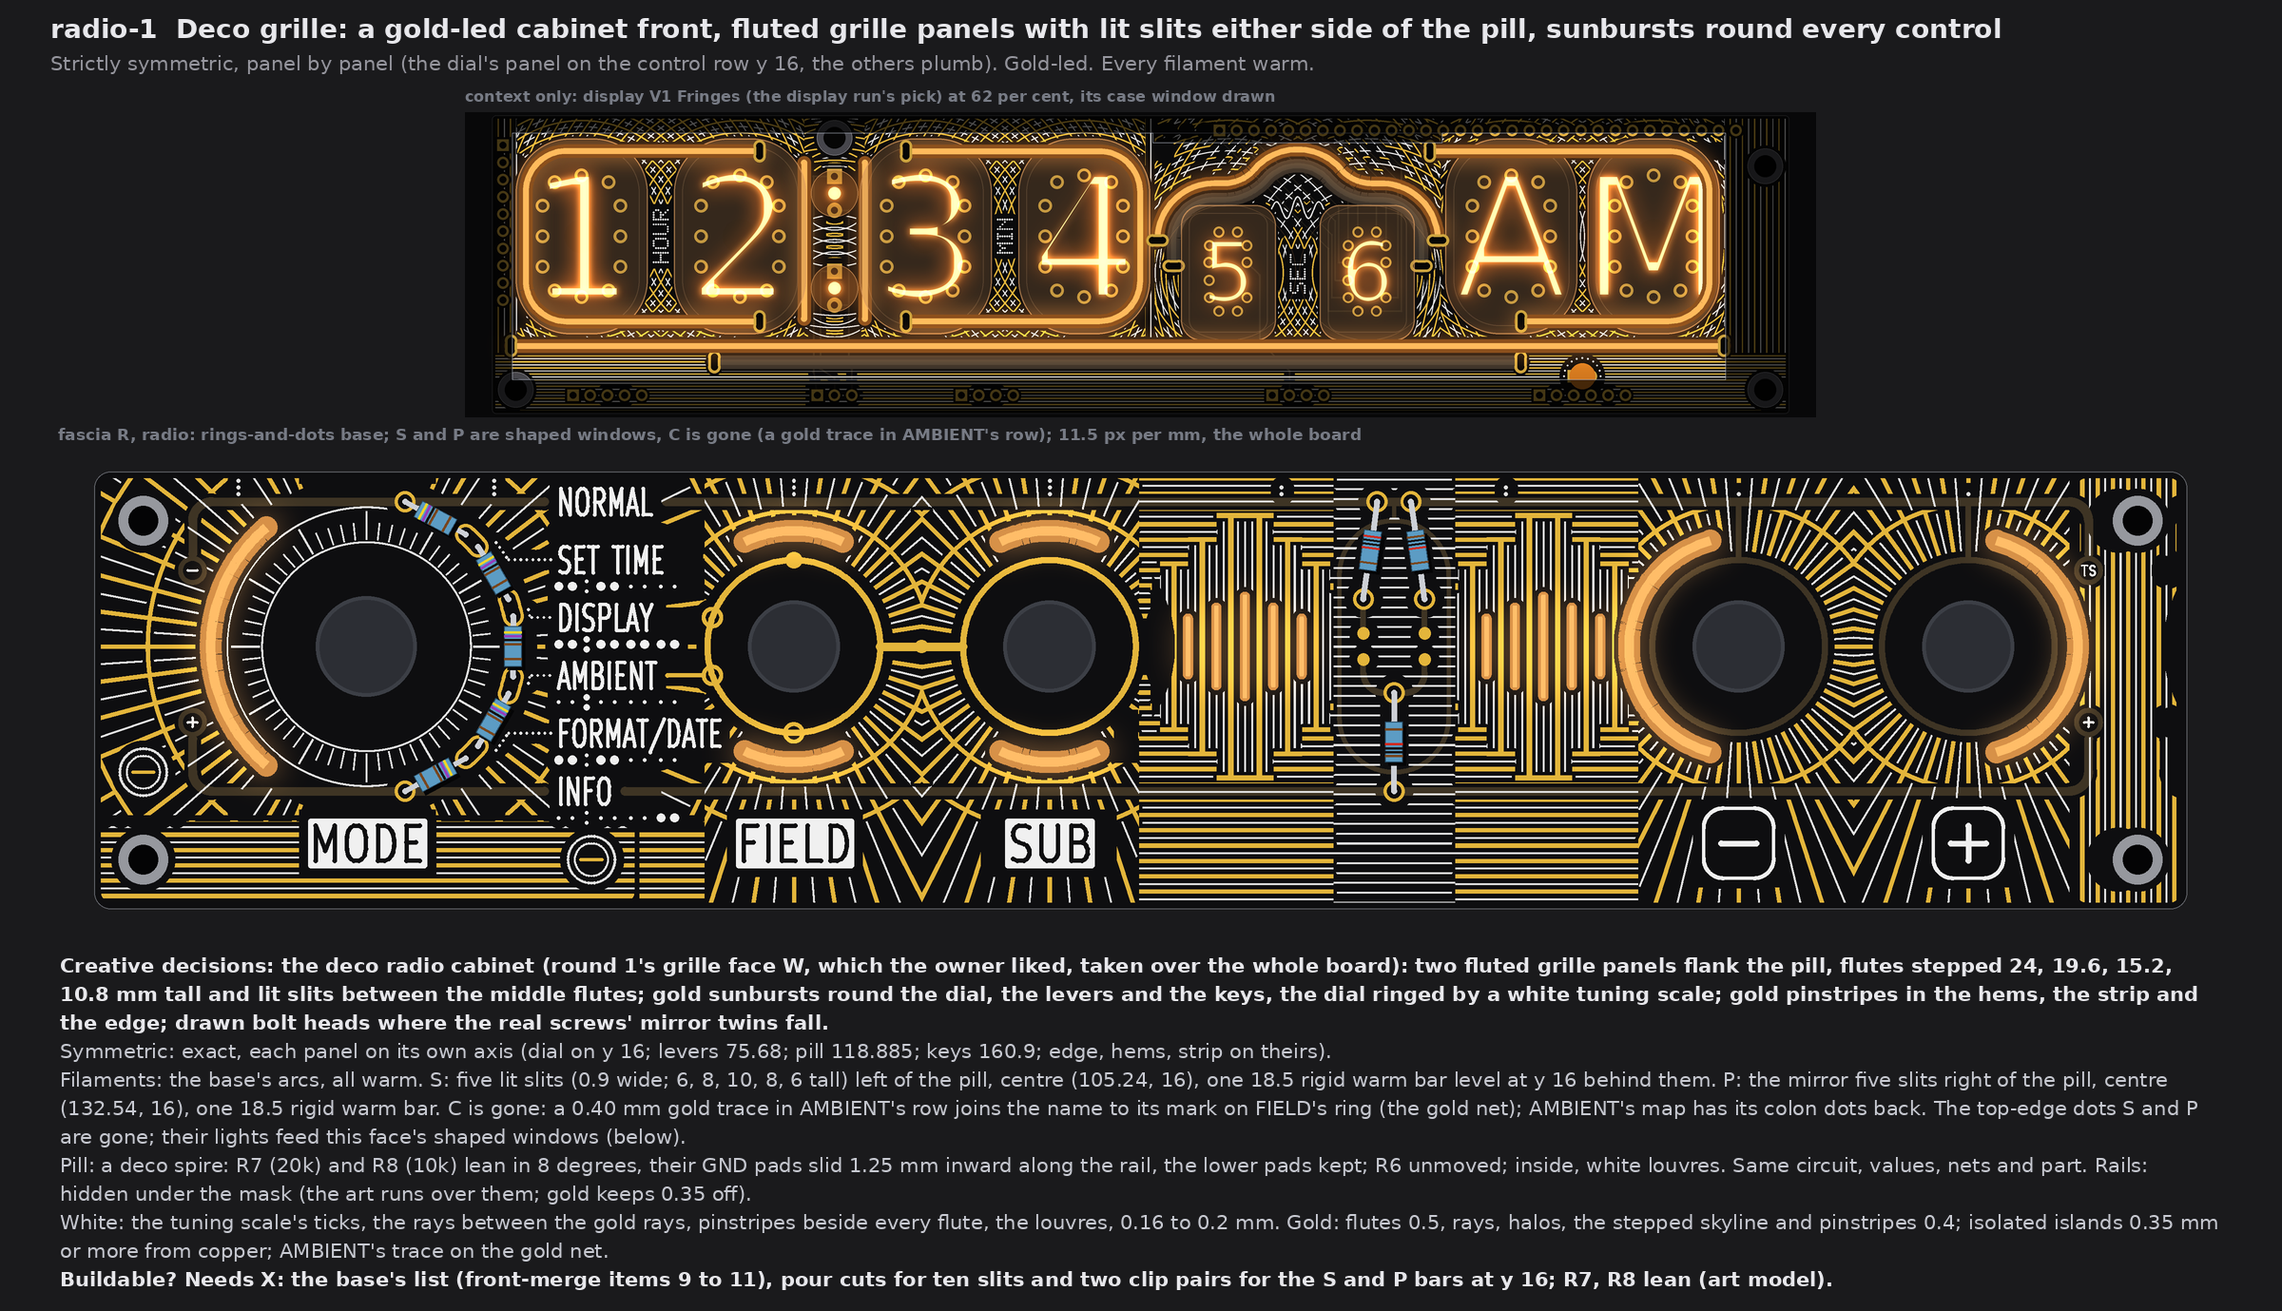
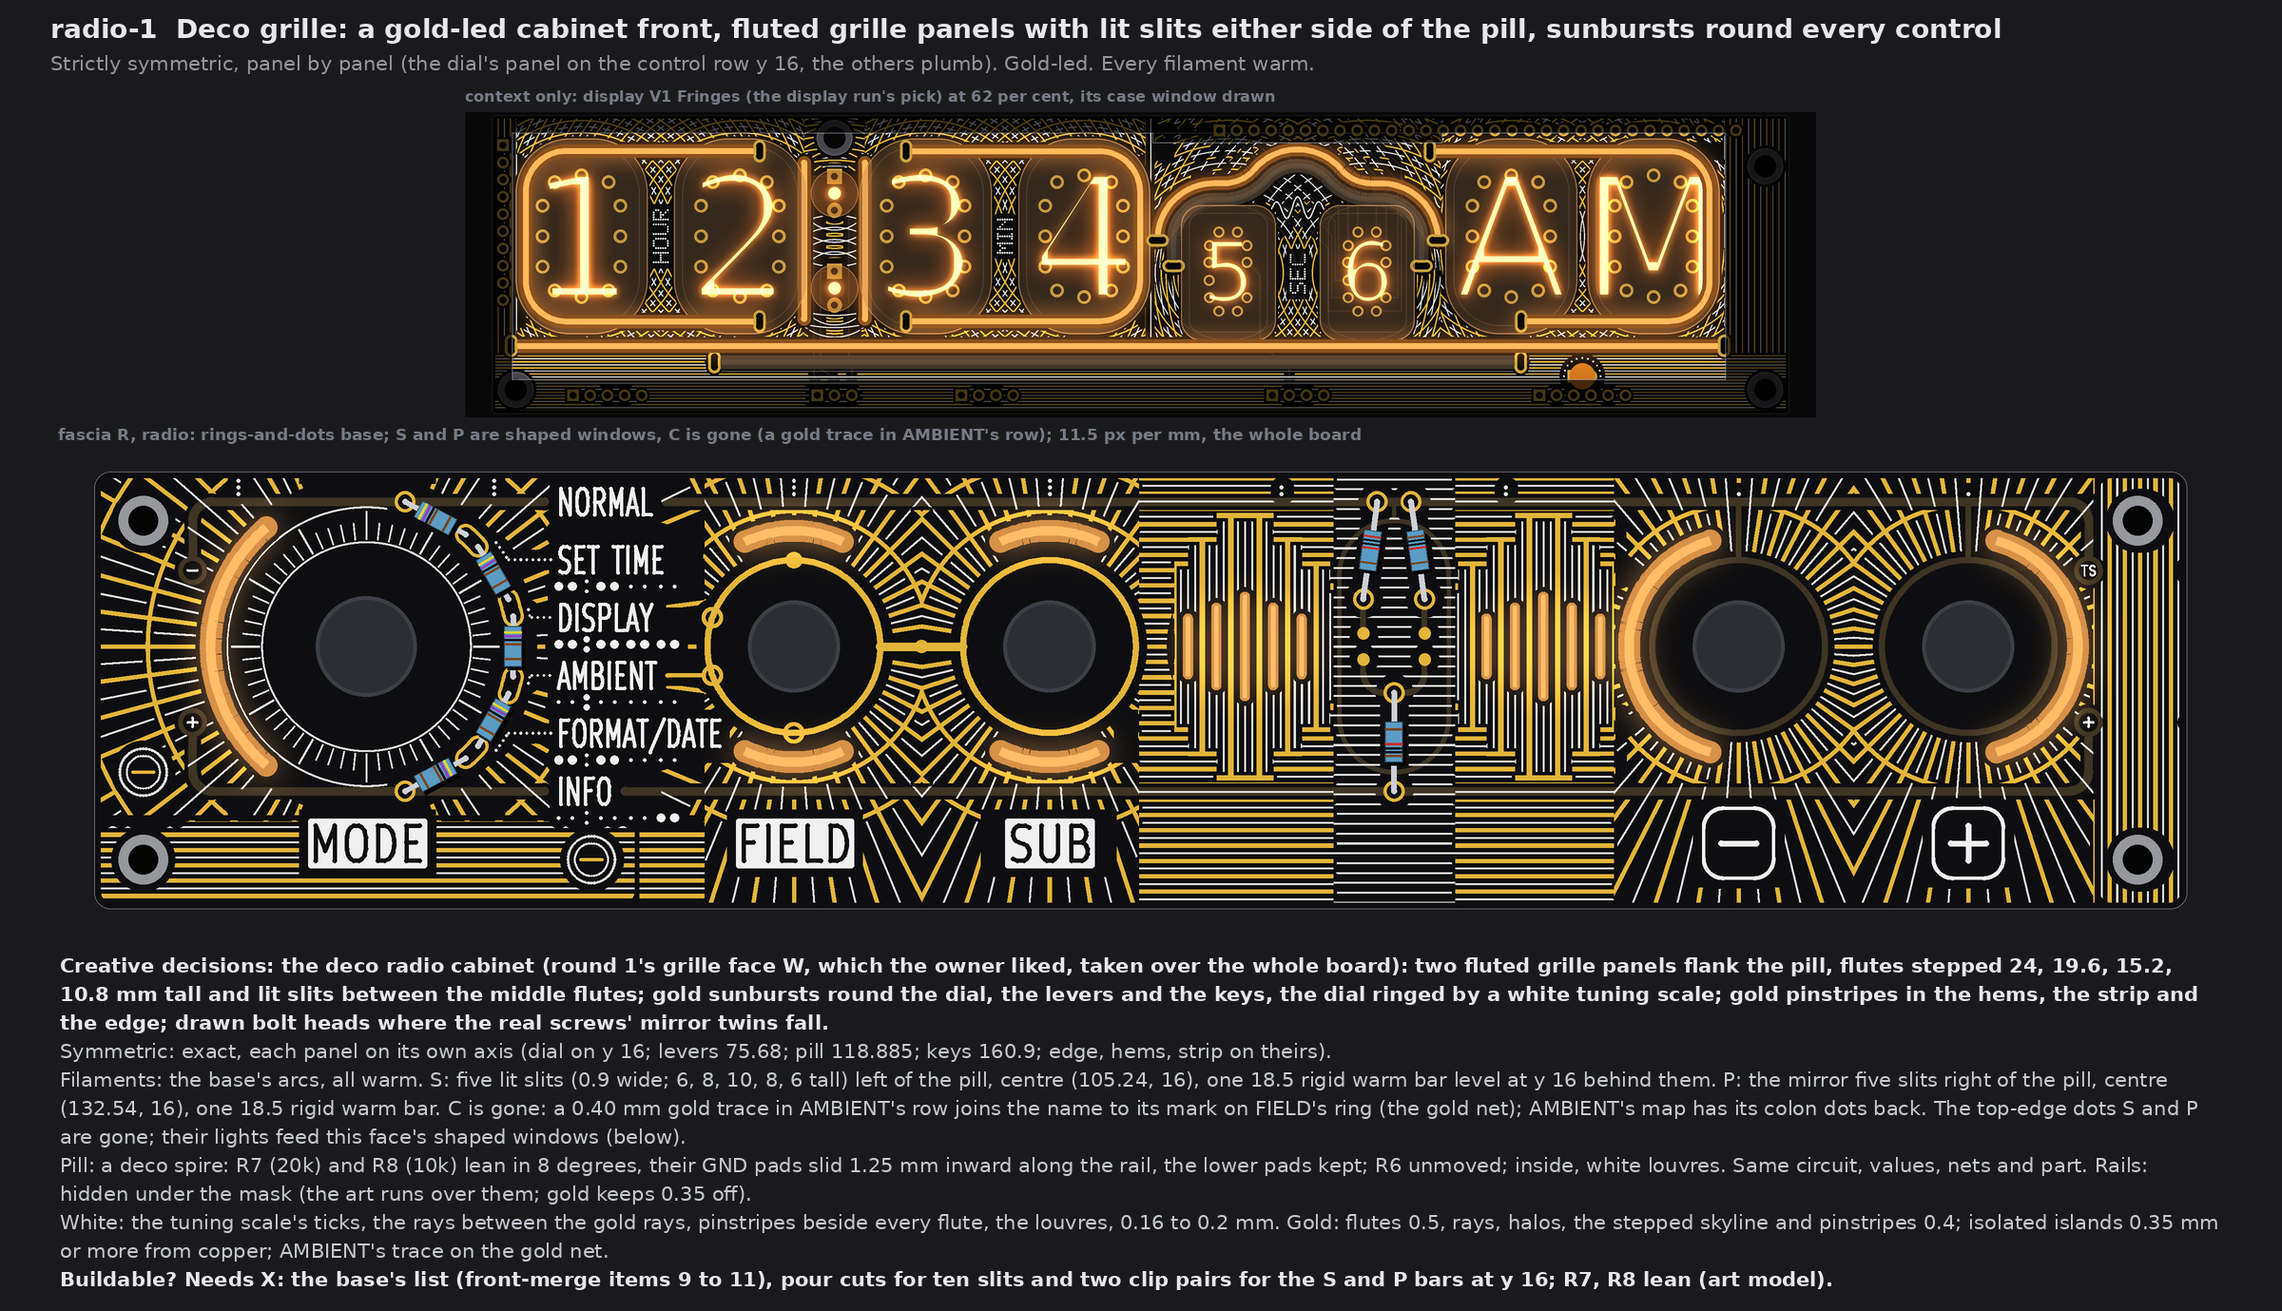
PCB/art: TS06 fascia radio, three faces (deco grille, dial glass, valves and ether), sheet, detail, back, write-up (drawings only)
Claude-Session: https://claude.ai/code/session_01WoV3gyAFgmtuk6W6Dr4bdA

diff --git a/PCB/art/TS06-FASCIA-radio.md b/PCB/art/TS06-FASCIA-radio.md
@@ -1,0 +1,219 @@
+# TS06 fascia, radio: three radio fronts over one light base (drawings only, nothing built)
+
+2026-10-14, front round 3, run fascia-radio. The owner's theme: "radio" (a radio front: dial scales, bands, tuning needle,
+grille, valves; generic numbers only, no station or trade names). All three faces are wild and cover the whole board. They differ by
+creative decisions, not by how busy they are:
+
+* **radio-1 Deco grille:** gold-led, strictly symmetric, all warm.
+* **radio-2 Dial glass:** white-led, strictly symmetric, warm + white needle + green magic eye.
+* **radio-3 Valves and ether:** mixed, fully organic, warm valve glows + red pilot jewel.
+
+Radio-1 takes round 1's grille face W (`TS06-FRONT-art-B-deco.md` section 4), which the owner liked, over the whole fascia.
+
+The queue changes A1 to A5 are in on every face:
+* no top-edge dots: S and P light shaped windows;
+* the pill and the rails are said per face;
+* display V1 Fringes is in the strip above each face;
+* the AMBIENT cutout C is gone, with a gold trace in its row (section 1).
+
+Each face is fascia R with the owner's rings-and-dots (front-merge section 6), drawn from the board file's copy that pass 4 used, at
+one scale (11.5 px per mm), windows lit. No board, schematic, fab, tool, 3D, firmware or spec file was touched. The scripts are
+scratch (copies of the kawaii-2 run's base and checks), not in the repo.
+
+Marks: *measured* is from the drawing's raster (23 px per mm) or the board file; *inferred* is arithmetic; *assumed* is my reading.
+
+![The three faces at one scale](TS06-FASCIA-radio/contact-sheet.png)
+
+## 1. What every face keeps
+
+* **Fixed:** the outline, holes, controls and their places, J1, the names, plates, key legends, tube maps, dot leaders and the
+  top-edge tube index; FIELD's and SUB's gold rings, the link, the four SUB marks on FIELD's ring and the GND via.
+* **Info first:** every name, legend, map and leader keeps 0.78 mm of calm ground (rule 0.75), and E1's gold keeps its 0.75 frame.
+  No art crosses a legend.
+* **Numbers:** the only numbers in the art are generic scale numbers on radio-2's dial glass. There are no station, band or trade
+  names and no logos.
+* **The AMBIENT cutout is gone (A5),** as in kawaii-2:
+  * window C at (45.04, 21.2) and its tail are removed;
+  * AMBIENT's tube map gets back its two colon dots;
+  * a **0.40 mm gold trace** runs level at y 18.645 from x 52.43 to 55.75, into the outer edge of AMBIENT's mark on FIELD's ring.
+    So it is on the gold net, which ties to GND through the link's via.
+  * *Measured:* 0.78 from the name and the map, 10.0 from other copper, 0.78 or more from the pattern.
+* **Channels on the new fascia connector** (J1 is full; front-merge items 10 and 11), grouping *assumed* as the earlier runs':
+  1 MODE, 2 FIELD up + down, 3 SUB up + down, 4 the two keys, **5 S + P (C dropped)**, 6 spare. Nothing comes from DISP. No face adds
+  a filament, so the six channels hold.
+* **5 V:** nine fascia filaments instead of ten, so 20 mA less than the base at 20 mA each (*inferred*).
+* **Fab note (once):** bare-FR4 windows still need the fab's yes (pass 1's coupon). Not decided here.
+* **Symmetric faces** (1 and 2) are mirrored panel by panel. The dial's panel is mirrored on the control row y 16; the others are
+  mirrored plumb on their own axes: levers 75.68, pill 118.885, keys 160.9, plus the hems, the strip and the edge.
+  * Where a real screw's mirror twin falls, at (4.5, 27.5) and (45.48, 35.5), a bolt head is drawn so the clear ground is not a hole
+    in the art.
+  * On radio-1, the pill panel ends at x 139.0, where the key arc's keep-out begins. Its mirror then leaves no dark patch by SUB.
+
+## 2. radio-1 Deco grille
+
+![radio-1](TS06-FASCIA-radio/radio-1-deco-grille.png)
+
+* **Creative decisions:** a gold deco cabinet.
+  * Two fluted grille panels flank the pill. The flutes step 24, 19.6, 15.2 and 10.8 mm tall away from each panel's centre, with
+    gold pinstripes above and below the stepped skyline.
+  * Lit slits stand between the middle flutes.
+  * Gold sunbursts ring the dial, the levers and the keys, with halos round the levers and keys.
+  * A white tuning scale (60 ticks, majors every 30 degrees) circles the MODE knob.
+  * The hems, the strip and the edge carry pinstripes and flutes.
+* **Strictly symmetric** (exact, panel by panel). *Measured* mirror misses: 0 on every panel, except 0.05 per cent of the white in
+  the edge panel (raster rounding).
+* **Filaments:** the base's arcs (MODE 38 flex; FIELD and SUB 18.5 rigid in curved clips or 38 flex; keys 38 flex), all warm.
+  * **S:** five lit slits, 0.9 mm wide and 6, 8, 10, 8, 6 mm tall, left of the pill at x 100.04 to 110.44 (centre 105.24, 16).
+    One **18.5 rigid warm bar** lies level at y 16 behind them, x 95.99 to 114.49.
+  * **P:** the mirror five slits right of the pill (centre 132.54, 16), with one **18.5 rigid warm bar**, x 123.29 to 141.79.
+  * The slits glow brightest at the bar's row and fade toward their ends (*assumed*, from FR4's spread).
+* **Pill: a deco spire.**
+  * R7 (20k) and R8 (10k) lean in 8 degrees. Their GND pads slide 1.25 mm inward along the rail, to x 117.34 and 120.43.
+  * The lower pads keep their x and rise 0.09 mm to y 11.68, so the 9.0 mm lead pitch is kept. R6 (10k) does not move.
+  * White louvres fill the capsule round the parts.
+  * Same circuit, values, nets and part. The GND pads stay on the GND rail, 1.19 mm apart (*inferred*).
+* **Rails: hidden** under the mask. The art runs over them; gold keeps 0.35 off the copper.
+* **White:** the tuning scale, the rays between the gold rays, pinstripes 0.65 mm each side of every flute, and the louvres
+  (0.16 to 0.2 mm).
+* **Gold (leads):** flutes 0.5 mm; rays, halos, the skyline and pinstripes 0.4 mm; the bolt slots. They are isolated islands
+  0.36 mm or more from copper, plus AMBIENT's trace on the gold net. Gold 801 mm², white 452 mm² (*measured*).
+* **Buildable? Needs X:** the base's list (front-merge items 9 to 11), plus pour cuts for ten slits and two clip pairs for the bars
+  at y 16. R7 and R8 lean (art model; see section 6).
+
+![radio-1 at 2x](TS06-FASCIA-radio/detail-2x.png)
+
+## 3. radio-2 Dial glass
+
+![radio-2](TS06-FASCIA-radio/radio-2-dial-glass.png)
+
+* **Creative decisions:** the whole board is a printed dial glass.
+  * Thirteen band scales run in rows at 2.94 mm pitch, between the rails and below them. Each has minor ticks every 1 mm, mid ticks
+    every 5 mm and major ticks every 10 mm, with a numeral at each major.
+  * Round scales circle MODE: a 3-degree inner ring, then nine arc scales outside the MODE window.
+  * Tick skirts ring the levers and the keys.
+  * The **- and + keys are the tuning buttons.** The lit **needle** stands between them, with a **magic eye** above it.
+  * The numbers are generic scale numbers (multiples of 1, 2, 5, 10, 20), centre-zero on each panel's axis. 55 numerals are
+    placed, each only where all of it sits on allowed ground.
+* **Strictly symmetric layout:** ticks, rows, rails and windows mirror exactly.
+  * The numerals mirror in place, but each digit reads the right way. That is the only mirror miss (*measured*: at most 0.2 per cent
+    of the gold and 5 per cent of the white, in the panels with numerals).
+  * If the owner counts the upright digits as near-symmetric, the digits can go and leave the ticks alone.
+* **Filaments:** the base's arcs, warm.
+  * **S: the magic eye** at (160.9, 5.5). It is two lit fans, r 0.65 to 1.75 over 124 degrees each, with dark wedges above and
+    below. One **18.5 rigid green bar** lies level at y 5.5, x 151.65 to 170.15.
+  * **P: the tuning needle,** 0.8 x 13.2 mm plumb at x 160.9, y 8.7 to 21.9. One **18.5 rigid white bar** stands **plumb** behind
+    it, y 7.6 to 26.1, 1.1 mm below the eye's bar.
+* **Pill: E1's places.** Nothing moves: the pill is the dial's centre column, and the scales stop round it.
+* **Rails: integrated.** Each rail is the base line of the top or bottom scale: white 0.3 mm over its mask, with ticks rising from
+  it.
+  * The left corners and stubs are drawn too, since they mirror on y 16.
+  * The right corner and stub (x 180.61 to 182.4) have no mirror twin, so they stay hidden.
+* **White (leads):** the base lines, all ticks, the 1.05 mm numerals, the skirts and the rails' lines. White 412 mm².
+* **Gold:** every other base line (0.22 mm) and a ring at r 12.35 round the dial. Ticks keep 0.35 off a gold base line. Isolated
+  islands, plus AMBIENT's trace. Gold 103 mm².
+* **Buildable? Needs X:** the base's list, plus pour cuts for the eye and the needle, a green and a white 18.5 rigid bar, and a plumb
+  clip pair.
+  * *Measured* on the ordered board (`R-open`): a 0.25 mm back track runs level at y 23.0 from x 150.4 to 173.0. The needle window
+    stops 0.98 mm above it.
+  * The plumb bar lies across that track on the solder mask (*assumed* fine: an insulated glass body). The bar's bottom clip
+    (y 26.1) is 2.98 mm below the track and 4.3 mm above J1.
+
+## 4. radio-3 Valves and ether
+
+![radio-3](TS06-FASCIA-radio/radio-3-valves-and-ether.png)
+
+* **Creative decisions:** the radio's inside, seen through.
+  * Seven valves are drawn in white with gold anodes and getters. Three are lit: their glows are the S light.
+  * A red pilot jewel sits between the keys: it is the P light.
+  * Radio waves roll over the whole board, white and gold in turn about every 1.32 mm. They start at the tip of an aerial (R7 and
+    R8 splayed as rabbit ears), are bent by a slow random swell, and lean round each knob.
+  * The valves sit on top of the waves; the waves stop 0.35 mm short of each valve.
+* **Fully organic:** one wave source off the pill's axis, a random swell, and seven valves of seven sizes placed freely. Nothing
+  mirrors.
+* **Filaments:** the base's arcs, warm.
+  * **S: three valve glows,** slots 1.0 mm wide (4.6, 4.6 and 3.6 mm tall) at x 99.6, 104.75 and 110.0, y 16. One **18.5 rigid
+    warm bar** lies level at y 16, x 95.5 to 114.0.
+  * **P: a red pilot jewel,** an octagon r 1.45 at (157.6, 6.3), in a white bezel with gold rays. One **18.5 rigid red bar** lies
+    level at y 6.3, x 148.35 to 166.85.
+* **Pill: rabbit-ear aerial.** R7 (20k) and R8 (10k) splay 18 degrees out (kawaii-2's move). Their GND pads slide 2.78 mm outward
+  along the rail, to x 113.30 and 124.47, and the lower pads rise to y 11.33. R6 does not move. Same circuit, values, nets and part.
+* **Rails: shown.**
+  * The GND rail's straight runs are **gold**: the mask opens over them, and it is GND.
+  * The mask stays closed for 1.5 mm at each of the eight top-edge index marks (x 13.2, 36.6, 64.0, 87.4, 108.6, 129.1, 150.4,
+    171.4), so no silk lands on the gold. *Measured:* 0.43 mm from the nearest index dot (rule 0.30).
+  * The corners and the stub to the "-" lug stay masked.
+  * The +5V rail is a **white** 0.3 mm line over its mask, because decorative gold is only on GND.
+  * The waves keep 0.45 mm off both rails.
+* **White:** the waves at the whole phase (0.18 mm); the valves' envelopes, grids and pins; the jewel's bezels; the +5V line.
+  White 627 mm².
+* **Gold:** the waves at the half phase (0.22 mm), the anodes, getters and the jewel's rays. Isolated islands 0.35 mm or more from
+  copper, plus the GND rail and AMBIENT's trace on GND. Gold 429 mm².
+* **Buildable? Needs X:** the base's list, plus pour cuts for three glows and the jewel, a red 18.5 rigid bar, and the GND rail's
+  mask opening (front copper on GND only).
+
+## 5. The light base and what each face changes
+
+![The fascia's back: base and changes](TS06-FASCIA-radio/lights-back.png)
+
+| Change against the base | Filament (sold list), form | Channel | On the fascia's back |
+|---|---|---|---|
+| **C and its tail removed** (A5, all faces) | none | 5 loses C | C's pour cut closes |
+| radio-1 **S**: dot (108.6, 4.5) becomes 5 slits round (105.24, 16) | 18.5 rigid warm, level at y 16 | 5 | 5 slit cuts, 2 clips |
+| radio-1 **P**: dot (160.9, 4.5) moves 28.4 left and 11.5 down, to 5 slits round (132.54, 16) | 18.5 rigid warm, level at y 16 | 5 | 5 slit cuts, 2 clips |
+| radio-2 **S**: the magic eye, moved 52.3 right and 1.0 down, to (160.9, 5.5) | 18.5 rigid **green**, level at y 5.5 | 5 | 2 fan cuts, 2 clips |
+| radio-2 **P**: the needle, moved down to x 160.9, y 8.7 to 21.9 | 18.5 rigid **white**, **plumb** | 5 | 1 slot cut, 2 clips |
+| radio-3 **S**: three glows round (104.75, 16) | 18.5 rigid warm, level at y 16 | 5 | 3 slot cuts, 2 clips |
+| radio-3 **P**: the jewel, moved 3.3 left and 1.8 down, to (157.6, 6.3) | 18.5 rigid **red**, level at y 6.3 | 5 | 1 octagon cut, 2 clips |
+
+**Colours each face ships with** (all sold: the rigid bars come in warm white, white, red, green, blue and pink):
+* radio-1: warm only.
+* radio-2: warm + green (eye) + white (needle).
+* radio-3: warm + red (jewel).
+
+**Bar fit, *measured*** on the art model and the ordered board (`R-open`):
+
+| Bar (body 2.0 wide) | To R6 to R8's plated pads (rule 0.4) | To a key's courtyard (r 6.2) | To J1 | To a back track |
+|---|---|---|---|---|
+| radio-1 S | 2.74 | 29.7 | 36.0 | 9.07 |
+| radio-1 P | 2.74 | 2.41 | 14.7 | 9.07 |
+| radio-2 eye | 29.1 | 3.38 | 23.9 | 16.4 |
+| radio-2 needle (plumb) | 37.3 | 3.30 | 4.30 | crosses the y 23.0 track under the mask (section 3) |
+| radio-3 S | 3.27 | 30.2 | 36.5 | 9.07 |
+| radio-3 P | 23.1 | 2.50 | 23.1 | 15.6 |
+
+On `R-open` the back has no via near any bar. R6 to R8 are 1206 parts elsewhere on the ordered board, so the pad gaps above are
+the art model's (E1's through-hole places).
+
+## 6. The checks (*measured* on the raster, 23 px per mm)
+
+| Check | Rule | radio-1 | radio-2 | radio-3 |
+|---|---|---|---|---|
+| White, gold to a name, plate, key legend, tube map, leader or index dot | 0.75 | 0.78, 0.78 | 0.78, 0.81 | 0.80, 0.78 |
+| White, gold to E1's exposed gold (rings, link, marks, pads, AMBIENT's trace) | 0.30 (frame 0.75 drawn) | 0.74, 0.75 | 0.75, 0.75 | 0.45, 0.45 (to the gold rail) |
+| Pattern gold to copper | 0.30 | 0.36 | 0.36 | 0.35 |
+| White, gold to a lit window | 0.35 | 0.39, 0.39 | 0.39, 0.40 | 0.39, 0.39 |
+| White to the pattern's gold | 0.30 | 0.31 | 0.31 | 0.31 |
+| Lit window to copper; to a legend | 0.30 | 0.68; 1.17 | 0.68; 1.17 | 0.68; 1.17 |
+| AMBIENT's trace to a legend; to other copper | 0.75; 0.30 | 0.78; 10.0 | 0.78; 10.0 | 0.78; 10.0 |
+| Free board within 1.2 mm of some ink | (no empty space) | 98.5 % | 95.3 % | 99.3 % |
+
+White over the masked rails and lugs is allowed, as in E1, so white to copper reads 0. What stays dark is the ring of mask between
+each knob and its window. On radio-2 the spacing of the scales (2.94 mm rows) is open by design.
+
+## 7. My pick
+
+**radio-1 Deco grille.** It carries the grille the owner liked over the whole board, in gold, exactly mirrored, with every name on
+calm ground and both lights turned into the grille's own slits. radio-3 Valves and ether is the fullest and most alive (the S-tier
+ripple look in radio form); radio-2 Dial glass is the most "radio" at a glance, with the needle between the tuning keys.
+
+## 8. Left open, assumed
+
+* *Assumed:* the S and P lights are 18.5 rigid bars (the shortest sold), held in printed clips at their ends.
+* *Assumed:* the slits, glows and fans light evenly enough through the FR4 from a 2 mm bar crossing them. The bench decides; the
+  10 mm slits on radio-1 will be brighter at the middle.
+* *Assumed:* radio-2's plumb bar may lie across the masked back track at y 23. If not, the track takes a short dogleg round the bar's
+  lower end (below y 26.6).
+* The rearranged pills are drawn on the art model's places (E1). The board-change run places R6 to R8.
+* The pattern's gold is isolated islands (no net). Stems to GND can be added if the fab wants no floating copper; not drawn.
+* The smallest strokes (0.14 to 0.18 mm silk) are at the fab's silk limit used before (0.15). Radio-2's numerals are 1.05 mm tall.
+* Not checked: KiCad DRC (no board file was edited).
